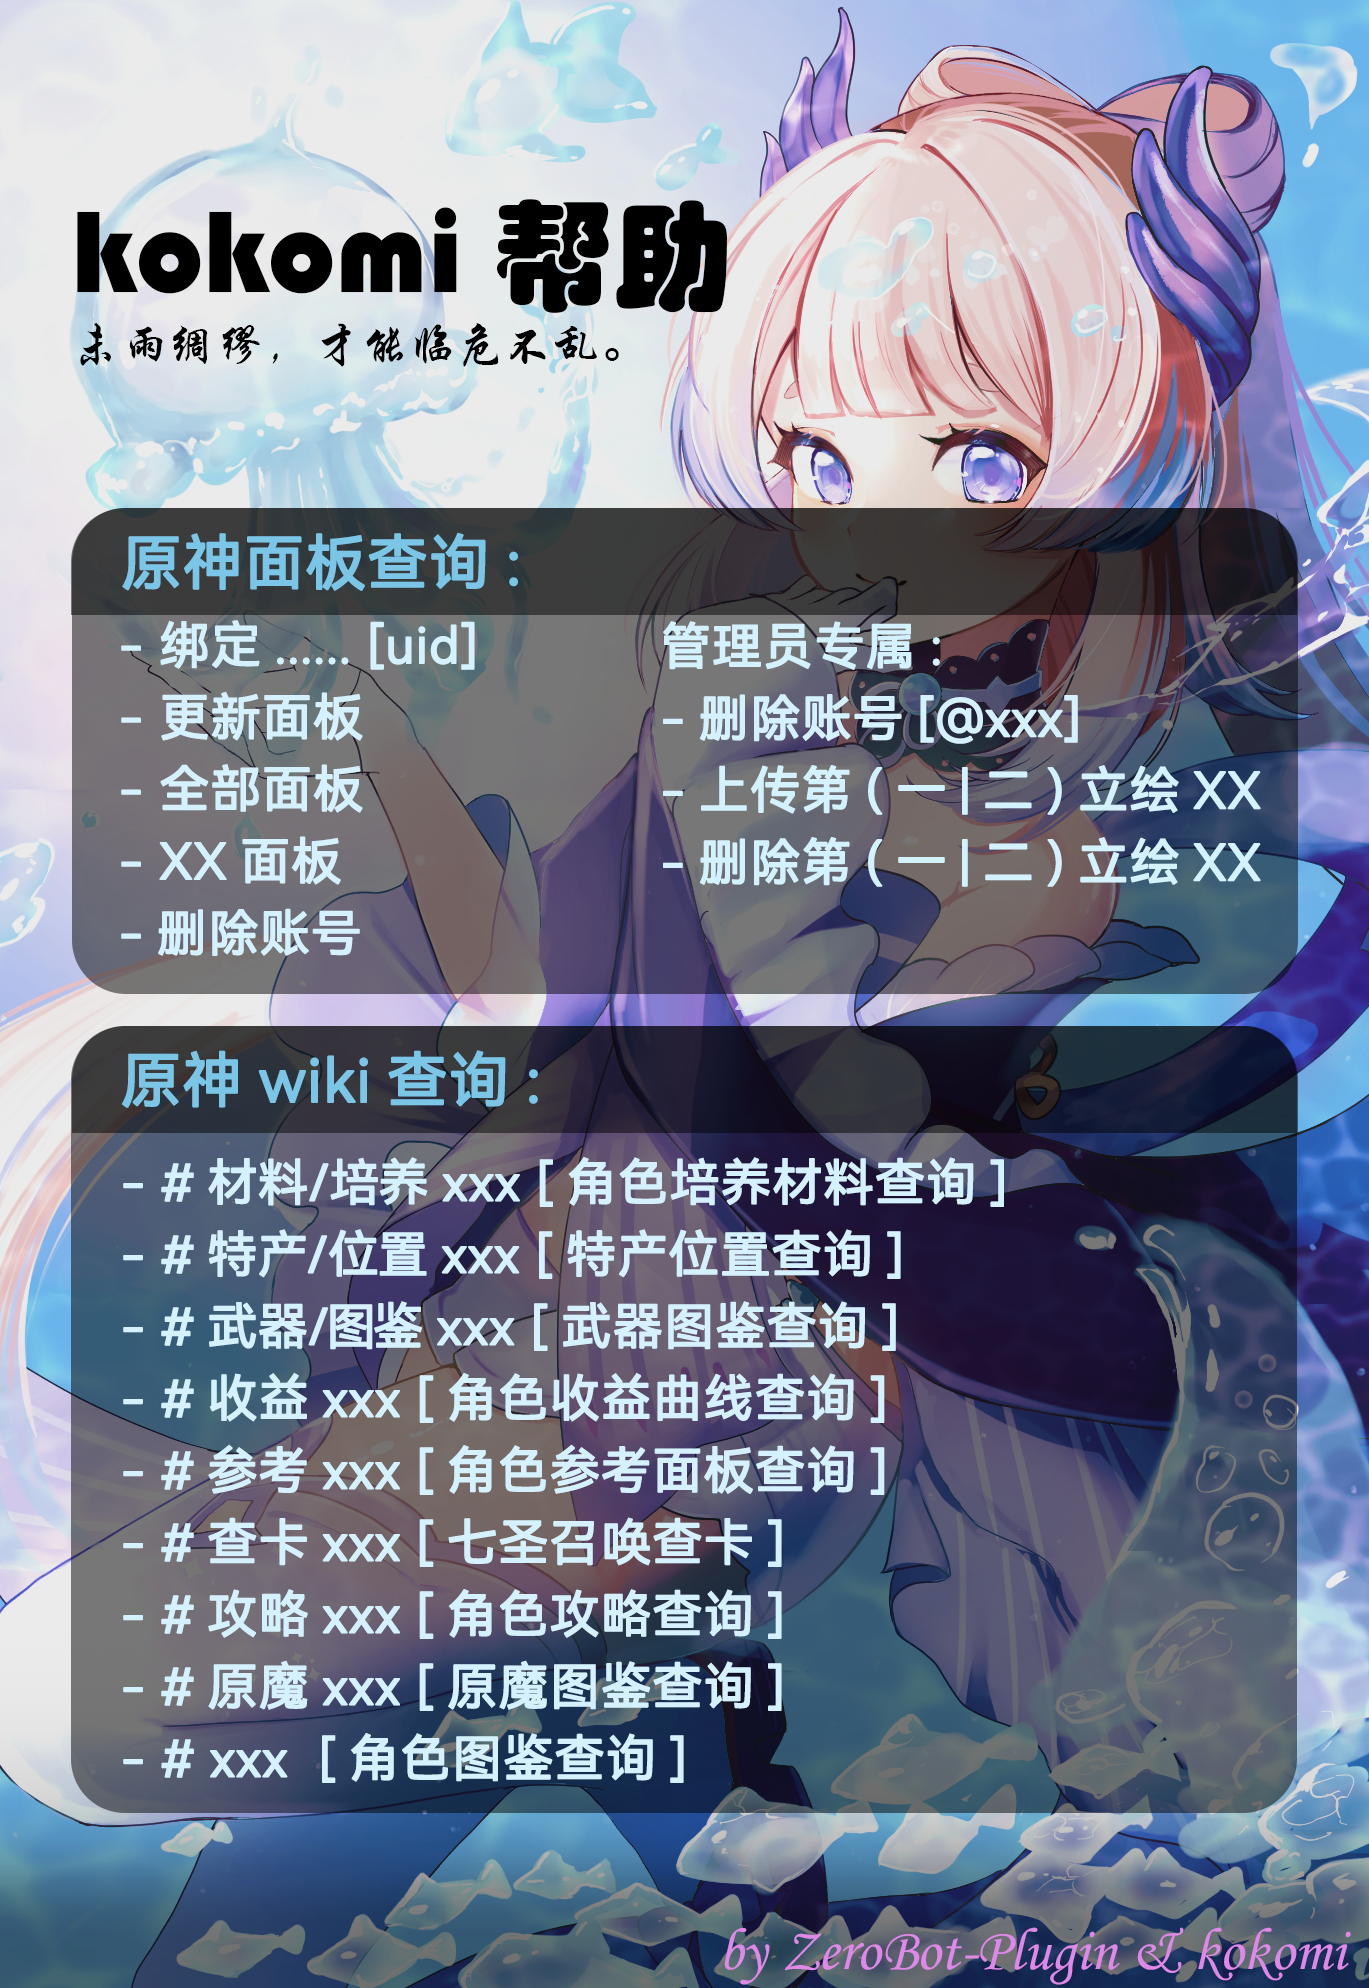
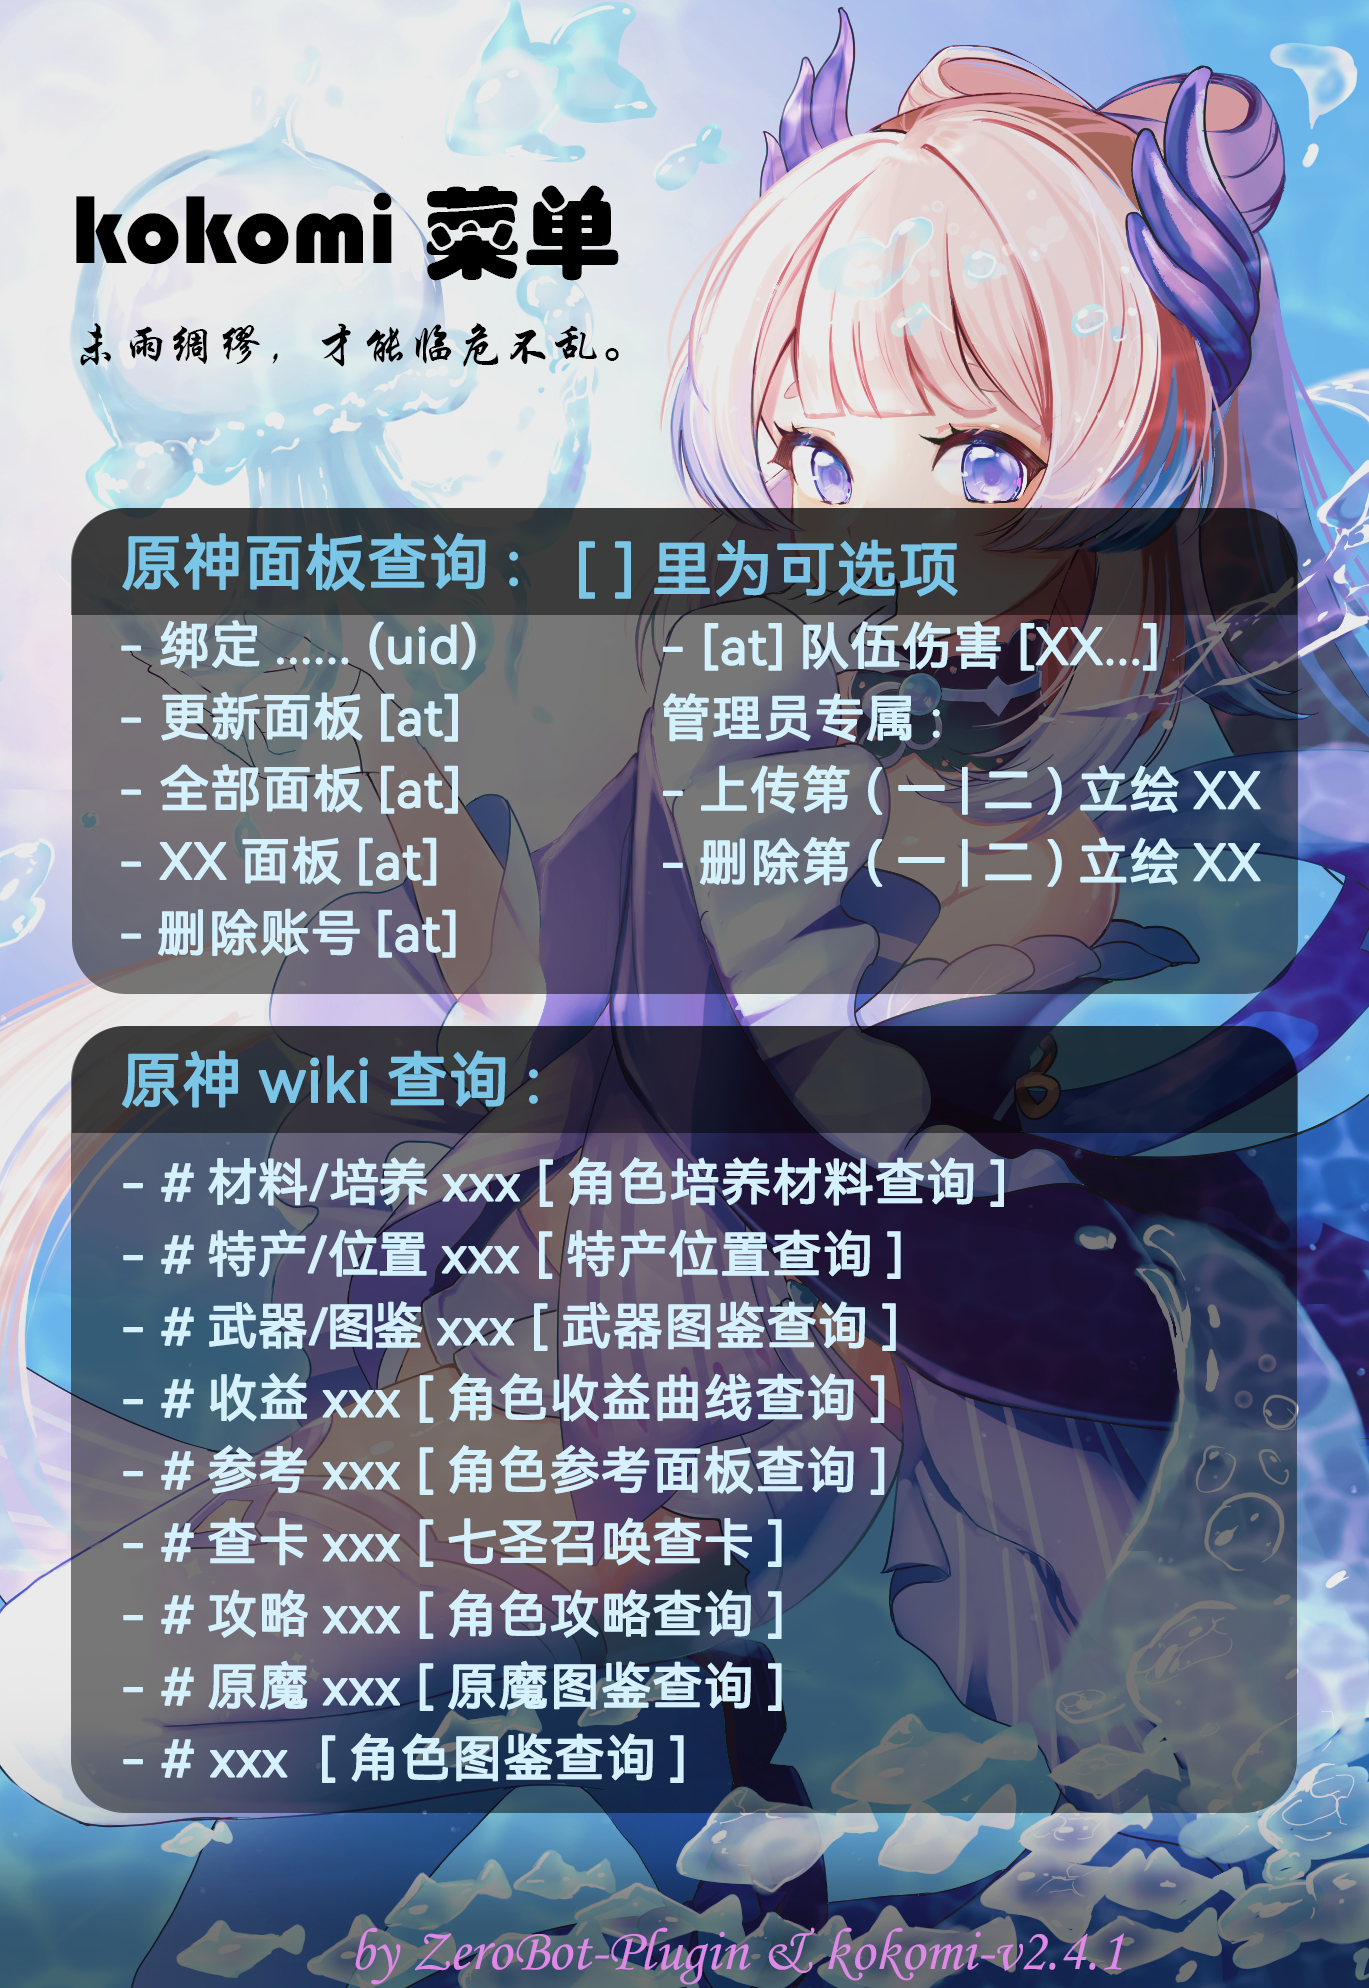
pull

diff --git a/plugin/kokomi/kokomi.go b/plugin/kokomi/kokomi.go
@@ -1,4 +1,4 @@
-// Package kokomi 原神面板v2.4
+// Package kokomi 原神面板v2.4.1
 package kokomi
 
 import (
@@ -44,12 +44,15 @@ func init() { // 主函数
 	en := control.Register("kokomi", &ctrl.Options[*zero.Ctx]{
 		DisableOnDefault: false,
 		Brief:            "原神面板查询",
-		Help: "- kokomi菜单\n" +
+		Help: "- kokomi菜单([]里面为可选项)\n" +
 			"- 绑定......(uid)\n" +
-			"- 更新面板\n" +
-			"- 全部面板\n" +
-			"- XX面板\n" +
-			"- 删除账号[@xx]",
+			"- 更新面板[@xx]\n" +
+			"- 全部面板[@xx]\n" +
+			"- XX面板[@xx]\n" +
+			"- 删除账号[@xx]\n" +
+			"- [@xx]队伍伤害[xx xx xx xx]\n" +
+			"- 管理员专属指令:\n" +
+			"- (上传|删除)第(1|2)立绘 XX\n",
 	})
 	en.OnRegex(`(?:#|＃)?(.*)面板\s*(?:\[CQ:at,qq=)?(\d+)?`).SetBlock(true).Handle(func(ctx *zero.Ctx) {
 		var allfen = 0.00
@@ -738,8 +741,8 @@ func init() { // 主函数
 	})
 
 	// 绑定uid
-	en.OnRegex(`^(#|＃)?绑定\s*(uid|UID|Uid)?\s*(\d+)?`).SetBlock(true).Handle(func(ctx *zero.Ctx) {
-		suid := ctx.State["regex_matched"].([]string)[3] // 获取uid
+	en.OnRegex(`^(?:#|＃)?\s*绑定+?\s*(?:uid|UID|Uid)?\s*(\d+)?`).SetBlock(true).Handle(func(ctx *zero.Ctx) {
+		suid := ctx.State["regex_matched"].([]string)[1] // 获取uid
 		int64uid, err := strconv.ParseInt(suid, 10, 64)
 		if suid == "" || int64uid < 100000000 || int64uid > 1000000000 || err != nil {
 			//ctx.SendChain(message.Text("-请输入正确的uid"))
@@ -1005,7 +1008,7 @@ func init() { // 主函数
 	})
 
 	//队伍伤害
-	en.OnRegex(`(?:\[CQ:at,qq=)?(\d+)?\]?(?:#|＃)?队伍伤害\s*((\D+)\s(\D+)\s(\D+)\s(\D+))?`).SetBlock(true).Handle(func(ctx *zero.Ctx) {
+	en.OnRegex(`(?:\[CQ:at,qq=)?(\d+)?\]?\s*(?:#|＃)?队伍伤害\s*((\D+)\s(\D+)\s(\D+)\s(\D+))?`).SetBlock(true).Handle(func(ctx *zero.Ctx) {
 		var alldata Thisdata
 		is := [4]int{}
 		sqquid := ctx.State["regex_matched"].([]string)[1] // 获取第三者qquid
@@ -1071,6 +1074,7 @@ func init() { // 主函数
 				}
 			}
 		}
+
 		ctx.SendChain(message.Text("-伤害计算中...\n-队伍配置", fmt.Sprintln(names)))
 		da, err := alldata.Getgroupdata(suid, is)
 		if err != nil {
@@ -1100,10 +1104,29 @@ func init() { // 主函数
 			yingtwo := Yinying(460, 600, 16, black127)
 			yingthree := Yinying(500, 230, 16, black127)
 			yingfour := Yinying(500, 400, 16, black127)
+			yingzero := Yinying(410, 160, 16, black127)
 			one := gg.NewContext(410, 570)
 			two := gg.NewContext(460, 600)
 			three := gg.NewContext(500, 230)
 			four := gg.NewContext(500, 400)
+			zero := gg.NewContext(410, 160)
+			//图层零,用户信息
+			{
+				zero.SetRGB(1, 1, 1) //白色
+				if err := zero.LoadFontFace(NameFont, 80); err != nil {
+					panic(err)
+				}
+				zero.DrawStringAnchored(string([]rune(names[0])[:1])+
+					string([]rune(names[1])[:1])+
+					string([]rune(names[2])[:1])+
+					string([]rune(names[3])[:1]), 390, 130, 1, 0)
+				if err := zero.LoadFontFace(FontFile, 30); err != nil {
+					panic(err)
+				}
+				zero.DrawStringAnchored("昵称:"+alldata.Nickname, 390, 40, 1, 0)
+				dc.DrawImage(yingzero, 630, 20)
+				dc.DrawImage(zero.Image(), 630, 20)
+			}
 			//图层1,角色配置
 			{
 				if err := one.LoadFontFace(FontFile, 40); err != nil {
@@ -1165,7 +1188,7 @@ func init() { // 主函数
 				}
 				for k, v := range gdate.Result.ChartData {
 					two.DrawRectangle(float64(50+k*60), 575, 20, -v.Value/numchart*480)
-					two.DrawRectangle(float64(40+k*60), 20, 20, 20)
+					two.DrawRectangle(float64(50+k*60), 20, 20, 20)
 					two.SetHexColor(v.Label.Color) // 设置画笔颜色为绿色
 					two.Fill()                     // 使用当前颜色（绿）填充满当前路径（矩形）所闭合出的区域
 				}
@@ -1184,8 +1207,8 @@ func init() { // 主函数
 				}
 				three.SetHexColor("#98F5FF")
 				three.DrawStringAnchored(strconv.Itoa(gdate.Result.ZdlResult), 250, 160, 0.5, 0)
-				dc.DrawImage(yingthree, 60, 750)
-				dc.DrawImage(three.Image(), 60, 750)
+				dc.DrawImage(yingthree, 40, 750)
+				dc.DrawImage(three.Image(), 40, 750)
 			}
 			//图层4,手法展示
 			{
@@ -1201,8 +1224,8 @@ func init() { // 主函数
 					}
 				}
 
-				dc.DrawImage(yingfour, 60, 1000)
-				dc.DrawImage(four.Image(), 60, 1000)
+				dc.DrawImage(yingfour, 40, 1000)
+				dc.DrawImage(four.Image(), 40, 1000)
 			}
 			// 版本号
 			if err := dc.LoadFontFace(BaFile, 30); err != nil {

diff --git a/plugin/kokomi/shu.go b/plugin/kokomi/shu.go
@@ -1,4 +1,4 @@
-package kokomi // Package kokomi 导入yuan-shen模块
+package kokomi // Package kokomi
 
 import (
 	"bufio"
@@ -68,44 +68,13 @@ type Dam struct {
 	} `json:"result"`
 }
 type Damgroup struct {
-	Code           int    `json:"code"`
-	AdOpen         bool   `json:"ad_open"`
-	IsQuene        bool   `json:"is_quene"`
-	Waiting        bool   `json:"waiting"`
-	Count          int    `json:"count"`
-	EnergyHidden   bool   `json:"energy_hidden"`
-	RechargeHidden bool   `json:"recharge_hidden"`
-	Tomorrow       int    `json:"tomorrow"`
-	ShowRefresh    bool   `json:"show_refresh"`
-	Tips           string `json:"tips"`
-	Result         struct {
-		UID        string `json:"uid"`
-		Gameid     string `json:"gameid"`
-		Avatar     string `json:"avatar"`
-		UserLevel  string `json:"user_level"`
-		ServerName string `json:"server_name"`
-		ZdlResult  int    `json:"zdl_result"`
-		ZdlTips0   string `json:"zdl_tips0"`
-		ZdlTips1   string `json:"zdl_tips1"`
-		ZdlTips2   string `json:"zdl_tips2"`
-		ZdlTips3   string `json:"zdl_tips3"`
-		RoleList   []struct {
-			Role         string `json:"role"`
-			RoleClass    int    `json:"role_class"`
-			RoleLevel    string `json:"role_level"`
-			RoleAvatar   string `json:"role_avatar"`
-			RoleStar     int    `json:"role_star"`
-			Recharge     string `json:"recharge"`
-			KeyValue     int    `json:"key_value"`
-			KeyAbility   string `json:"key_ability"`
-			Artifacts    string `json:"artifacts"`
-			Crit         string `json:"crit"`
-			Weapon       string `json:"weapon"`
-			WeaponClass  string `json:"weapon_class"`
-			WeaponAvatar string `json:"weapon_avatar"`
-			Ability      string `json:"ability"`
-		} `json:"role_list"`
-		ChartData []struct {
+	Result struct {
+		ZdlResult int        `json:"zdl_result"`
+		ZdlTips0  string     `json:"zdl_tips0"`
+		ZdlTips1  string     `json:"zdl_tips1"`
+		ZdlTips2  string     `json:"zdl_tips2"`
+		ZdlTips3  string     `json:"zdl_tips3"`
+		ChartData []struct { //统计图数据
 			Name  string  `json:"name"`
 			Ename string  `json:"ename"`
 			Value float64 `json:"value"`
@@ -113,8 +82,15 @@ type Damgroup struct {
 				Color string `json:"color"`
 			} `json:"label"`
 		} `json:"chart_data"`
-		ChartColor []string `json:"chart_color"`
-		ComboIntro string   `json:"combo_intro"`
+		ComboIntro   string `json:"combo_intro"`
+		RechargeInfo []struct {
+			Ename    string  `json:"ename"`
+			Energy   float64 `json:"energy"`
+			Rate     string  `json:"rate"`
+			Height   int     `json:"height"`
+			Color    string  `json:"color"`
+			Recharge string  `json:"recharge"`
+		} `json:"recharge_info"`
 	} `json:"result"`
 }
 

diff --git a/plugin/kokomi/json.go b/plugin/kokomi/json.go
@@ -1,4 +1,4 @@
-package kokomi // Package kokomi 导入yuan-shen模块
+package kokomi // Package kokomi
 
 import ()
 
